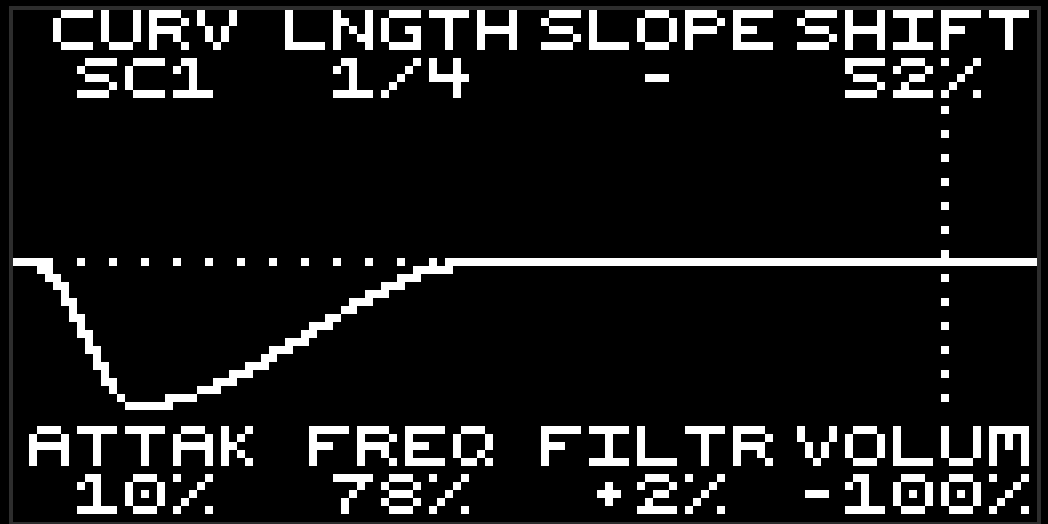
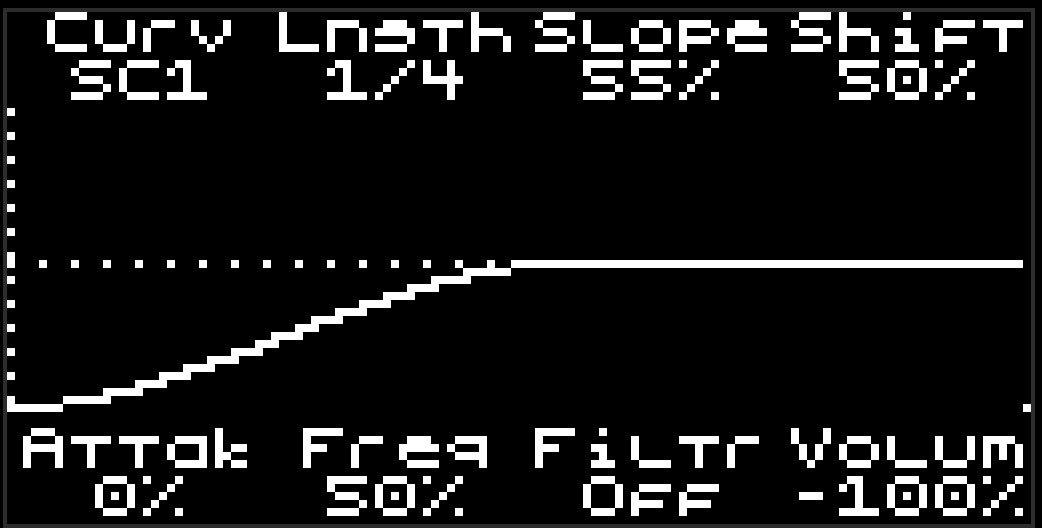
fix: receive MIDI clock via exported move_audio_fx_on_midi
The host loads an audio-FX MIDI handler through dlsym("move_audio_fx_on_midi")
— a separately-exported symbol, not the on_midi field of the API struct. We only
set g_api.on_midi, so the host's fx_on_midi[slot] was NULL and no clock ticks ever
arrived: the shaper free-ran on get_bpm() (correct tempo, wrong phase). Export a
thin wrapper that forwards to pnp_on_midi so clock/notes actually reach the module
and the curve phase-locks to the transport beat. Verified on hardware.

Also: refresh the README curve-view screenshot and move it just above the
Parameters section.

Claude-Session: https://claude.ai/code/session_01C7MdwWD6wfq4pRs31vkKVF

diff --git a/src/dsp/pushnpull.c b/src/dsp/pushnpull.c
@@ -370,3 +370,13 @@ audio_fx_api_v2_t* move_audio_fx_init_v2(const host_api_v1_t *host){
     pnp_log("PushNPull v2 initialized");
     return &g_api;
 }
+
+/* The chain_host loads FX MIDI handlers via dlsym("move_audio_fx_on_midi")
+ * — separate from the API struct's on_midi field. Without this exported
+ * wrapper, fx_on_midi[slot] is NULL and we never see MIDI clock ticks, so
+ * the shaper free-runs on get_bpm() (right tempo, wrong phase). Export a
+ * thin wrapper so clock/notes actually reach pnp_on_midi. */
+__attribute__((visibility("default")))
+void move_audio_fx_on_midi(void *instance, const uint8_t *msg, int len, int source){
+    pnp_on_midi(instance, msg, len, source);
+}

diff --git a/README.md b/README.md
@@ -8,8 +8,6 @@ A beat-locked curve runs in time with your project tempo and produces a bipolar
 modulation signal that can **pull** (duck) or **push** (boost). Route it to the
 output **Volume**, a multimode **Filter**, or both at once.
 
-<img src="docs/curve-view.png" alt="PushNPull — Visual Edit" width="524">
-
 ## Use case
 
 Drop PushNPull on a bassline, pad, chord stab, or full bus to get instant,
@@ -46,6 +44,8 @@ eight knobs mapped over it:
 
 The **jog wheel** cycles through curves. Filter *tone* params (model, mode,
 resonance, drive) and **Output** live in the standard parameter menu.
+
+<img src="docs/curve-view.png" alt="PushNPull — Visual Edit" width="524">
 
 ## Parameters
 